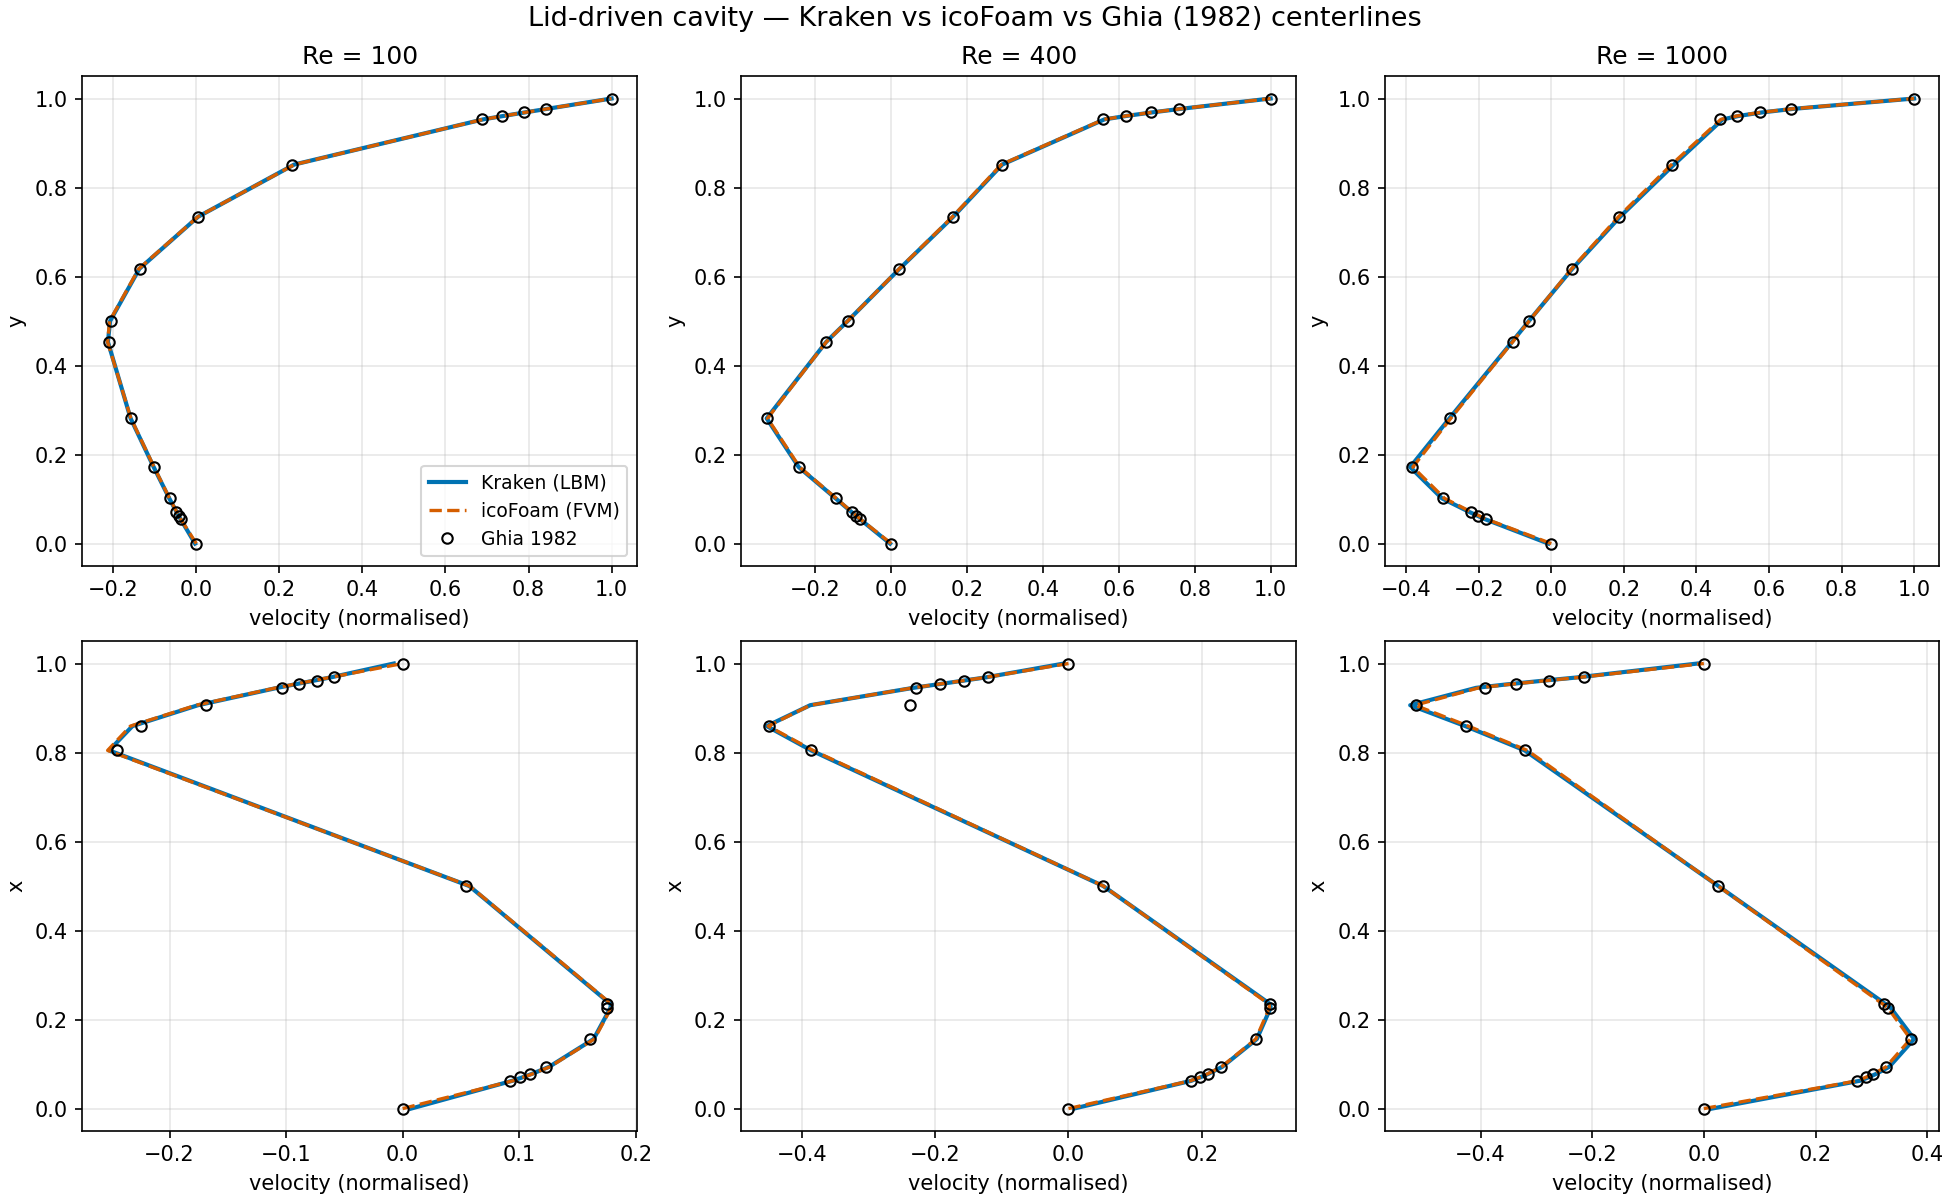
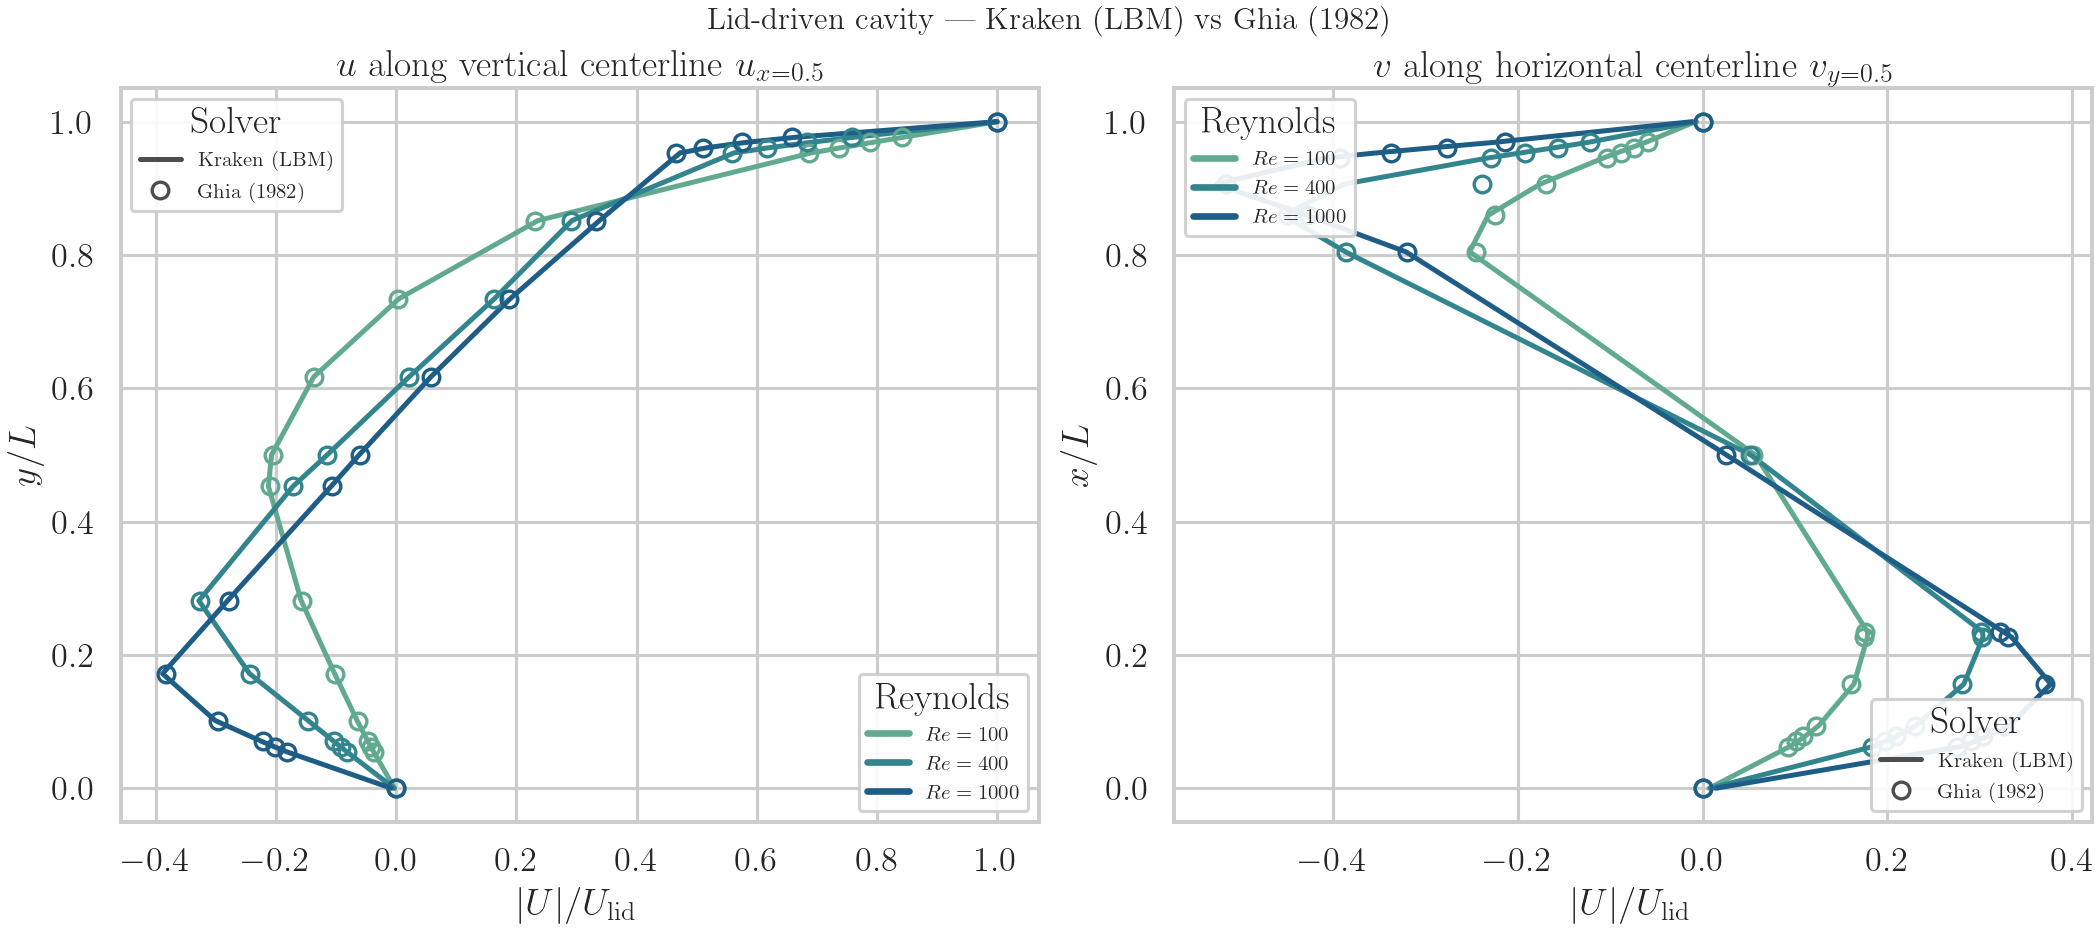
docs(benchmarks): finalize Newtonian cavity figure — LaTeX + seaborn crest, classic Kraken-vs-Ghia profiles
Reproducibility-bundle plot.py refined to the agreed house pattern: two classic
centerline panels side by side (coordinate on the ordinate, |U| on the abscissa),
all three Re overlaid (seaborn crest), Kraken solid line vs Ghia 1982 open
circles, LaTeX labels (usetex when available, mathtext-CM fallback), both legends
per panel (opposite corners on the v panel). icoFoam retained in the CSVs +
error_norms as the FVM cross-check, omitted from the plot for legibility.

diff --git a/benchmarks/results/rheotool_compare/newtonian/plot.py b/benchmarks/results/rheotool_compare/newtonian/plot.py
@@ -1,25 +1,36 @@
 #!/usr/bin/env python3
-"""Reproduce the Newtonian cavity comparison plot from the shipped CSVs.
+r"""Reproduce the Newtonian cavity comparison plot from the shipped CSVs.
 
-Self-contained: reads the `cavity_centerline_Re{100,400,1000}.csv` files that
-sit next to this script and regenerates `comparison.png` (Kraken vs OpenFOAM
-icoFoam vs Ghia 1982, u(y) on x=0.5 and v(x) on y=0.5). No external data, no
-cross-worktree paths — only numpy + matplotlib.
+Self-contained: reads ``cavity_centerline_Re{100,400,1000}.csv`` next to this
+script and regenerates ``comparison.png``. Classic centerline presentation --
+the spatial coordinate on the ordinate, the velocity on the abscissa:
+
+    left  -- u along the vertical centerline  (x = 0.5):  y vs u
+    right -- v along the horizontal centerline (y = 0.5):  x vs v
+
+Colour encodes the Reynolds number (seaborn ``crest``); Kraken is a solid line,
+Ghia (1982) open circles. Both legends (Reynolds + Solver) appear on each panel.
+
+LaTeX is used for all text when a system ``latex`` is available, otherwise the
+matplotlib mathtext engine with the Computer-Modern font set, so the figure
+renders identically anywhere. Dependencies: csv + matplotlib + seaborn.
 
 Usage:
     python plot.py            # writes comparison.png next to this script
 """
 import csv
 import os
+import shutil
 
 import matplotlib
 matplotlib.use("Agg")
 import matplotlib.pyplot as plt
+import seaborn as sns
+from matplotlib.lines import Line2D
 
 HERE = os.path.dirname(os.path.abspath(__file__))
 RES = [100, 400, 1000]
-PROFILES = [("u_vert", "u along vertical centerline (x = 0.5)", "y"),
-            ("v_horiz", "v along horizontal centerline (y = 0.5)", "x")]
+_USETEX = shutil.which("latex") is not None
 
 
 def load(re):
@@ -30,37 +41,60 @@ def load(re):
         lines = [ln for ln in fh if not ln.lstrip().startswith("#")]
         for r in csv.DictReader(lines):
             prof = r["profile"]
-            d = rows.setdefault(prof, {"coord": [], "kraken": [], "icofoam": [], "ghia": []})
-            for k in ("coord", "kraken", "icofoam", "ghia"):
+            d = rows.setdefault(prof, {"coord": [], "kraken": [], "ghia": []})
+            for k in ("coord", "kraken", "ghia"):
                 v = r.get(k, "")
                 d[k].append(float(v) if v not in ("", "nan", "NaN") else float("nan"))
     return rows
 
 
+def _draw(ax, series, color):
+    """Kraken solid line + Ghia open circles, velocity on the abscissa."""
+    ax.plot(series["kraken"], series["coord"], "-", color=color, lw=2.4, zorder=2)
+    ax.plot(series["ghia"], series["coord"], ls="none", marker="o", mfc="none",
+            mec=color, ms=8, mew=1.6, zorder=3)
+
+
 def main():
-    fig, axes = plt.subplots(2, 3, figsize=(13, 8), constrained_layout=True)
-    for col, re in enumerate(RES):
-        data = load(re)
-        for row, (prof, title, axis) in enumerate(PROFILES):
-            ax = axes[row][col]
-            d = data.get(prof)
-            if d is None:
-                ax.set_visible(False)
-                continue
-            ax.plot(d["kraken"], d["coord"], "-", color="#0072B2", lw=2, label="Kraken (LBM)")
-            ax.plot(d["icofoam"], d["coord"], "--", color="#D55E00", lw=1.6, label="icoFoam (FVM)")
-            ax.plot(d["ghia"], d["coord"], "o", mfc="none", mec="k", ms=5, label="Ghia 1982")
-            if row == 0:
-                ax.set_title(f"Re = {re}")
-            ax.set_xlabel("velocity (normalised)")
-            ax.set_ylabel(axis)
-            ax.grid(True, alpha=0.3)
-            if row == 0 and col == 0:
-                ax.legend(loc="best", fontsize=9)
-    fig.suptitle("Lid-driven cavity — Kraken vs icoFoam vs Ghia (1982) centerlines", fontsize=13)
+    sns.set_theme(style="whitegrid", context="talk", font="serif")
+    plt.rcParams.update({"text.usetex": _USETEX, "font.family": "serif",
+                         "mathtext.fontset": "cm"})
+    palette = sns.color_palette("crest", len(RES))
+    fig, (axu, axv) = plt.subplots(1, 2, figsize=(14, 6.2), constrained_layout=True)
+
+    for color, re in zip(palette, RES):
+        d = load(re)
+        _draw(axu, d["u_vert"], color)
+        _draw(axv, d["v_horiz"], color)
+
+    axu.set(xlabel=r"$|U|/U_{\mathrm{lid}}$", ylabel=r"$y/L$",
+            title=r"$u$ along vertical centerline $u_{x=0.5}$")
+    axv.set(xlabel=r"$|U|/U_{\mathrm{lid}}$", ylabel=r"$x/L$",
+            title=r"$v$ along horizontal centerline $v_{y=0.5}$")
+
+    re_handles = [Line2D([0], [0], color=c, lw=3.2, label=fr"$Re = {re}$")
+                  for c, re in zip(palette, RES)]
+    solver_handles = [
+        Line2D([0], [0], color="0.3", lw=2.4, ls="-", label="Kraken (LBM)"),
+        Line2D([0], [0], color="0.3", ls="none", marker="o", mfc="none",
+               mec="0.3", ms=8, mew=1.6, label="Ghia (1982)"),
+    ]
+    def _legends(ax, re_loc, solver_loc):
+        leg_re = ax.legend(handles=re_handles, loc=re_loc,
+                           fontsize=10, title="Reynolds", framealpha=0.9)
+        ax.add_artist(leg_re)
+        ax.legend(handles=solver_handles, loc=solver_loc,
+                  fontsize=10, title="Solver", framealpha=0.9)
+
+    # Right (v) panel: legends in the opposite corners to the left (u) panel.
+    _legends(axu, re_loc="lower right", solver_loc="upper left")
+    _legends(axv, re_loc="upper left", solver_loc="lower right")
+
+    fig.suptitle("Lid-driven cavity --- Kraken (LBM) vs Ghia (1982)",
+                 fontsize=15, fontweight="bold")
     out = os.path.join(HERE, "comparison.png")
     fig.savefig(out, dpi=150)
-    print("wrote", out)
+    print(f"wrote {out} (usetex={_USETEX})")
 
 
 if __name__ == "__main__":

diff --git a/benchmarks/results/rheotool_compare/newtonian/README.md b/benchmarks/results/rheotool_compare/newtonian/README.md
@@ -36,12 +36,16 @@ u-centerline clears the strict < 1 % gate.
   `*_rel` = `‖pred−ref‖ / ‖ref‖` (primary acceptance metric) and `*_absRMS` =
   `‖pred−ref‖ / √n`. vs-Ghia rows are interpolated onto Ghia's 17 stations;
   `kraken_vs_icofoam` onto a dense 129-point grid.
-- `comparison.png` — u(y) (top row) and v(x) (bottom row) overlays at
-  Re = 100/400/1000; Kraken solid, icoFoam dashed, Ghia open circles. Also
-  copied to `docs/src/users/benchmarks/newtonian-rheotool.png`.
+- `comparison.png` — classic centerline profiles side by side (u along the
+  vertical centerline x = 0.5; v along the horizontal centerline y = 0.5), all
+  three Re overlaid (seaborn `crest`): Kraken solid line, Ghia (1982) open
+  circles. icoFoam remains in the CSVs and `error_norms.csv` above as the FVM
+  cross-check, but is omitted from the plot for legibility. Also copied to
+  `docs/src/users/benchmarks/newtonian-rheotool.png`.
 - `plot.py` — **self-contained reproducer**: reads the three CSVs in this
-  directory and regenerates `comparison.png` (numpy + matplotlib only, no
-  external paths). Run `python plot.py`.
+  directory and regenerates `comparison.png` (csv + matplotlib + seaborn; LaTeX
+  if a system `latex` is present, else mathtext — no external paths). Run
+  `python plot.py`.
 - `cavity.krk` — the Kraken case file for the lid-driven cavity. Reproduce the
   Kraken centerlines with `run_simulation("cavity.krk")` (sweep `Re` via the
   `Physics nu` line; Re = 100/400/1000 ⇒ the grids in the table above).
